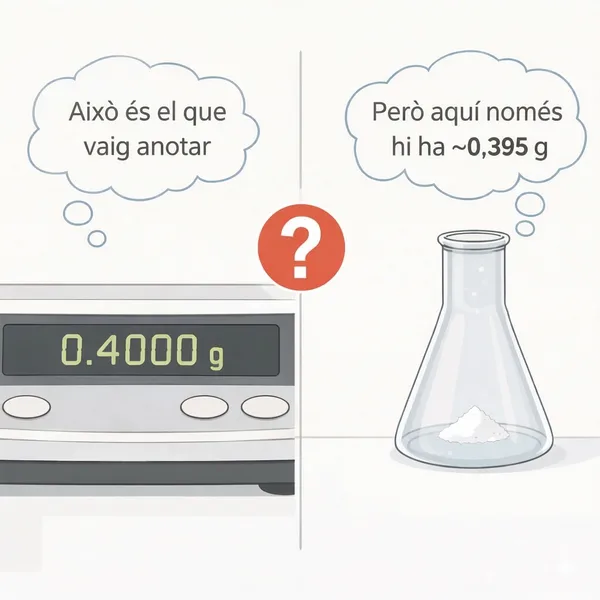
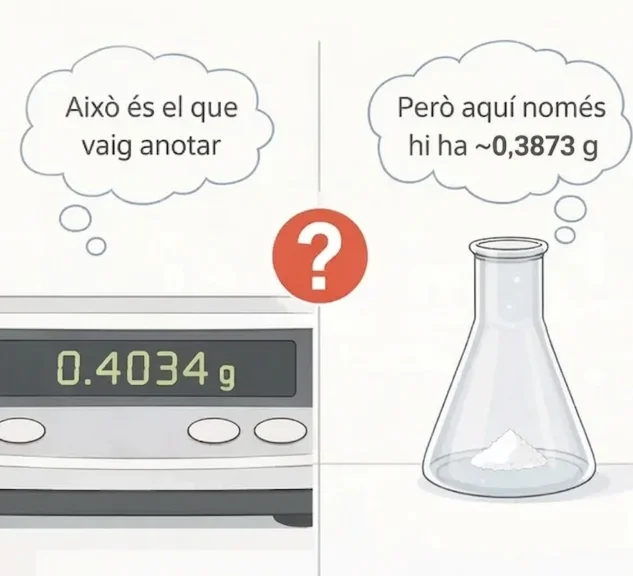
SEM01/SEM03: text-above-image cards + pesada values + llibreta fixes

Changed region(s): [[0.0, 0.0625, 1.0, 1.0], [0.03, 0.0625, 0.42, 0.4375], [0.42, 0.2188, 0.45, 0.25]]

diff --git a/seminari_pesada.html b/seminari_pesada.html
@@ -46,52 +46,52 @@
 
   <!-- Step 1: Tare -->
   <div class="step-card wrong reveal">
-    <img class="step-card-img" src="img/pesada_01_tara.webp" alt="Col·locar el pesasubstàncies a la balança i tarar">
     <div class="step-card-body">
       <div class="step-number">1</div>
       <h3>Tarar el pesasubstàncies</h3>
       <p>Col·loquem el pesasubstàncies buit sobre la balança analítica i premem <strong>TARA</strong>. La pantalla marca <strong>0,0000 g</strong>. Fins aquí, tot correcte — cap problema.</p>
     </div>
+    <img class="step-card-img" src="img/pesada_01_tara.webp" alt="Col·locar el pesasubstàncies a la balança i tarar">
   </div>
 
   <!-- Step 2: Add substance -->
   <div class="step-card wrong reveal">
-    <img class="step-card-img" src="img/pesada_02_afegir.webp" alt="Afegir substància amb espàtula">
     <div class="step-card-body">
       <div class="step-number">2</div>
       <h3>Afegir substància</h3>
-      <p>Amb una espàtula, afegim el sòlid al pesasubstàncies fins que la balança marca <strong>0,4000 g</strong>. Ho anotem a la llibreta. Encara cap problema... però ara ve el difícil.</p>
+      <p>Amb una espàtula, afegim el sòlid al pesasubstàncies fins que la balança marca <strong>0,4034 g</strong>. Ho anotem a la llibreta. Encara cap problema... però ara ve el difícil.</p>
     </div>
+    <img class="step-card-img" src="img/pesada_02_afegir.webp" alt="Afegir substància amb espàtula">
   </div>
 
   <!-- Step 3: Transfer -->
   <div class="step-card wrong reveal">
-    <img class="step-card-img" src="img/pesada_03_transferir.webp" alt="Transferir al matràs — queda residu!">
     <div class="step-card-body">
       <div class="step-number">3</div>
       <h3>Transferir al matràs</h3>
       <p><strong>Primer problema:</strong> abocem el contingut del pesasubstàncies a l'erlenmeyer. Però... <strong>no tot cau</strong>. Queden grans enganxats a les parets del vidre. Hem perdut una part de la substància que havíem pesat.</p>
     </div>
+    <img class="step-card-img" src="img/pesada_03_transferir.webp" alt="Transferir al matràs — queda residu!">
   </div>
 
   <!-- Step 4: Rinse -->
   <div class="step-card wrong reveal">
-    <img class="step-card-img" src="img/pesada_04_rentar.webp" alt="Intentar rentar amb piseta — encara queda residu">
     <div class="step-card-body">
       <div class="step-number">4</div>
       <h3>Intentar rentar</h3>
       <p><strong>Segon problema:</strong> si provem d'arrossegar el residu amb la piseta d'aigua, és difícil treure-ho tot — i a més, part de l'aigua <strong>cau pel camí</strong> i es perd. Mai tindrem la certesa d'haver recuperat tota la substància.</p>
     </div>
+    <img class="step-card-img" src="img/pesada_04_rentar.webp" alt="Intentar rentar amb piseta — encara queda residu">
   </div>
 
   <!-- Step 5: The problem -->
   <div class="step-card wrong reveal">
-    <img class="step-card-img" src="img/pesada_05_error.webp" alt="El problema: la massa anotada no coincideix amb la real">
     <div class="step-card-body">
       <div class="step-number">5</div>
       <h3>El resultat</h3>
-      <p><strong>Conseqüència:</strong> la balança deia <strong>0,4000 g</strong>, però al matràs hi ha menys — potser <strong>~0,395 g</strong>. Hem anotat un valor que no correspon amb la realitat. En química analítica, aquesta diferència <strong>és inacceptable</strong>.</p>
+      <p><strong>Conseqüència:</strong> la balança deia <strong>0,4034 g</strong>, però al matràs hi ha menys — potser <strong>~0,3873 g</strong>. Hem anotat un valor que no correspon amb la realitat. En química analítica, aquesta diferència <strong>és inacceptable</strong>.</p>
     </div>
+    <img class="step-card-img" src="img/pesada_05_error.webp" alt="El problema: la massa anotada no coincideix amb la real">
   </div>
 
   <!-- Error summary -->
@@ -105,7 +105,7 @@
   <div class="transition-section reveal">
     <div class="divider-line"></div>
     <h2>Hi ha una solució elegant</h2>
-    <p>No cal transferir-ho tot. Només cal pesar dues vegades.</p>
+    <p>Només cal pesar dues vegades.</p>
   </div>
 
   <!-- ────── CORRECT METHOD ────── -->
@@ -116,7 +116,6 @@
 
   <!-- Step 1: First weighing -->
   <div class="step-card right reveal">
-    <img class="step-card-img" src="img/pesada_06_m1.webp" alt="Pesasubstàncies amb substància a la balança — m₁">
     <div class="step-card-body">
       <div class="step-number">1</div>
       <h3>Peseu el pesasubstàncies amb la substància</h3>
@@ -125,21 +124,21 @@
         m₁ = 45,3421 g
       </p>
     </div>
+    <img class="step-card-img" src="img/pesada_06_m1.webp" alt="Pesasubstàncies amb substància a la balança — m₁">
   </div>
 
   <!-- Step 2: Transfer (relaxed) -->
   <div class="step-card right reveal">
-    <img class="step-card-img" src="img/pesada_08_transferir_ok.webp" alt="Transferir amb espàtula al vas de precipitats">
     <div class="step-card-body">
       <div class="step-number">2</div>
       <h3>Transferiu al matràs</h3>
       <p>Abocem la substància a l'erlenmeyer. Queda residu al pesasubstàncies? <strong>No importa!</strong> No cal rentar ni preocupar-se. La transferència no ha de ser perfecta.</p>
     </div>
+    <img class="step-card-img" src="img/pesada_08_transferir_ok.webp" alt="Transferir amb espàtula al vas de precipitats">
   </div>
 
   <!-- Step 3: Second weighing -->
   <div class="step-card right reveal">
-    <img class="step-card-img" src="img/pesada_09_calcul.webp" alt="Segona pesada i càlcul de la diferència">
     <div class="step-card-body">
       <div class="step-number">3</div>
       <h3>Torneu a pesar el pesasubstàncies</h3>
@@ -148,6 +147,7 @@
         m₂ = 44,9385 g
       </p>
     </div>
+    <img class="step-card-img" src="img/pesada_09_calcul.webp" alt="Segona pesada i càlcul de la diferència">
   </div>
 
   <!-- Equation card -->

diff --git a/seminari_llibreta.html b/seminari_llibreta.html
@@ -73,6 +73,12 @@
     </div>
   </div>
 
+  <div class="highlight-box info reveal" style="background:#f0fdf4; border:2px solid #22c55e; margin-top:1.5rem;">
+    <div class="highlight-icon">&#x2705;</div>
+    <h3>Les bones pràctiques us protegeixen</h3>
+    <p>Una llibreta ben portada no és burocràcia — és la vostra millor aliada. Si un resultat és qüestionat, la llibreta demostra que heu treballat amb rigor. A la indústria farmacèutica, una llibreta impecable pot ser la diferència entre aprovar o suspendre una auditoria. Comenceu ara a fer-ho bé i us serà natural quan ho necessiteu de veritat.</p>
+  </div>
+
   <!-- ═══════ HOW TO CORRECT ═══════ -->
   <div class="transition-section reveal">
     <div class="divider-line"></div>
@@ -123,7 +129,7 @@
   <!-- ═══════ STRUCTURE ═══════ -->
   <div class="section-label info reveal">
     <div class="section-label-icon">📝</div>
-    <h2>Contingut de cada pràctica</h2>
+    <h2>Què ha de contenir cada pràctica?</h2>
   </div>
 
   <div class="structure-list reveal">
@@ -166,7 +172,7 @@
       <div class="structure-num before">6</div>
       <div class="structure-info">
         <h4>Procediment</h4>
-        <p>Esquema dels passos que seguireu. Breu, clar, visual</p>
+        <p>Esquema dels passos que seguireu. Breu, clar, i visual si voleu</p>
       </div>
     </div>
 
@@ -174,7 +180,7 @@
       <div class="structure-num before">7</div>
       <div class="structure-info">
         <h4>Dades experimentals</h4>
-        <p>Les dades crues que recolliu: pesades (m₁, m₂, Δm), lectures de bureta (V_inicial, V_final), observacions de color, incidències. Tot amb TOTS els decimals</p>
+        <p>Les dades crues que recolliu: pesades (m₁, m₂, Δm), lectures de bureta (V_inicial, V_final), observacions de color, incidències. Tot amb totes les xifres significatives</p>
       </div>
     </div>
 
